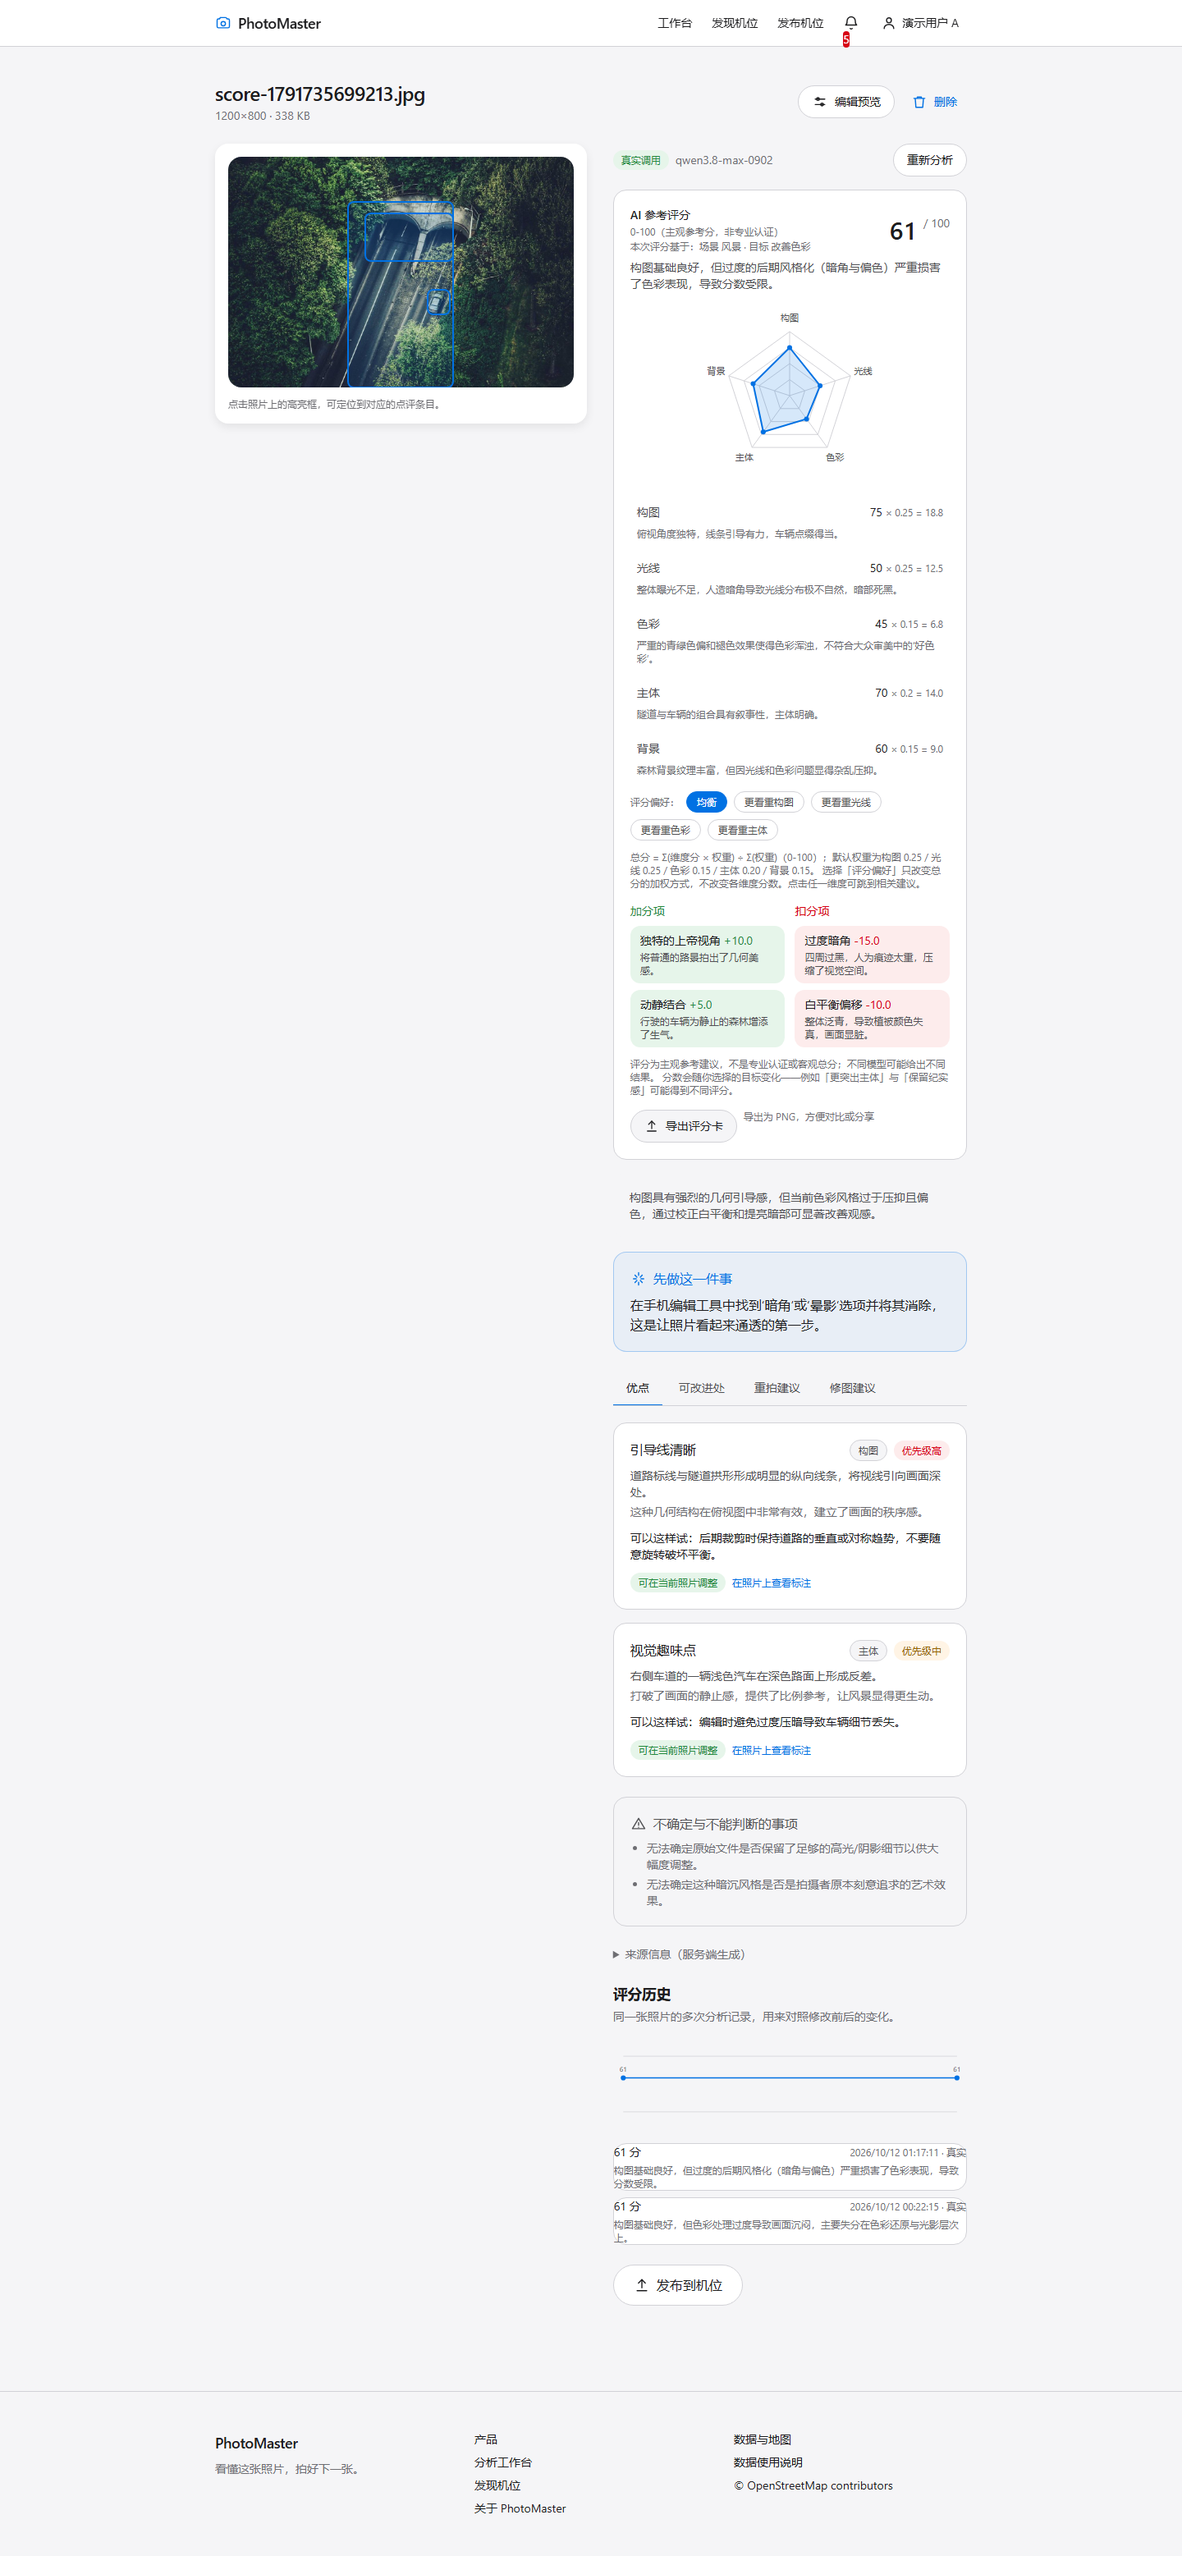
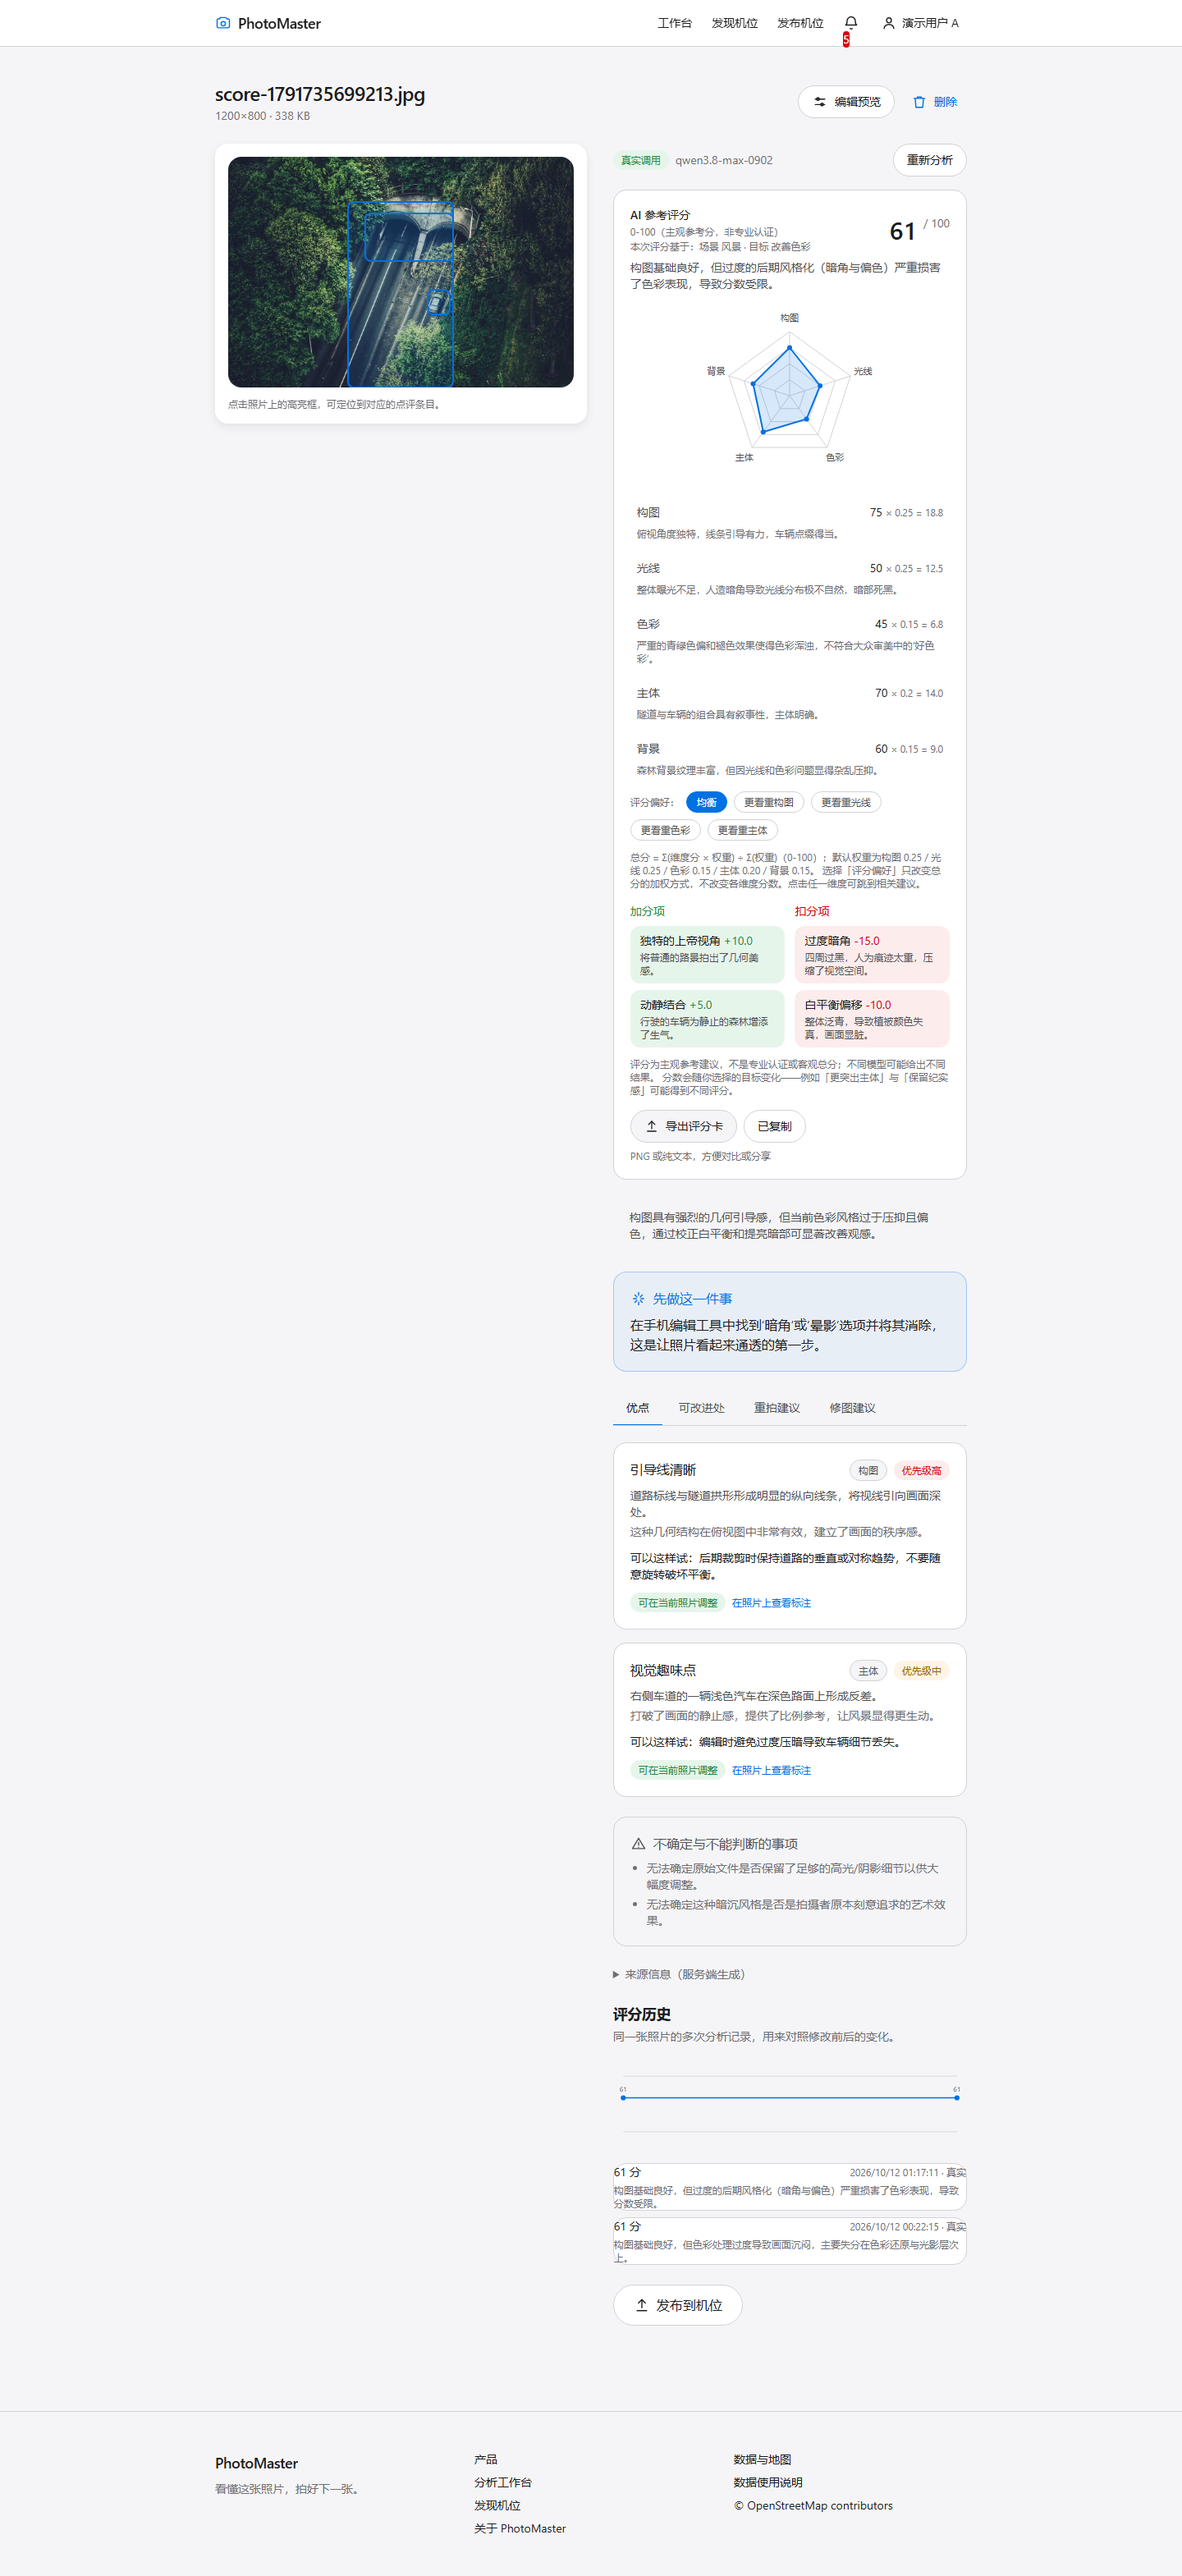
服务端统一评分口径与复制分享文案（S7）

diff --git a/app/static/js/workbench.js b/app/static/js/workbench.js
@@ -724,6 +724,54 @@
   const exportScoreButton = document.getElementById('export-score-card');
   if (exportScoreButton) exportScoreButton.addEventListener('click', exportScoreCard);
 
+  // ---- copy a plain-text summary of the score for quick sharing ----
+  function buildScoreText() {
+    const score = window.PM_SCORE;
+    if (!score) return '';
+    const weights = PREFERENCE_WEIGHTS[activePreference] || PREFERENCE_WEIGHTS.balanced;
+    let weighted = 0;
+    let total = 0;
+    (score.dimensions || []).forEach(function (dim) {
+      const weight = weights[dim.key] === undefined ? Number(dim.weight) : weights[dim.key];
+      weighted += Number(dim.score) * weight;
+      total += weight;
+    });
+    const overall = total > 0 ? Math.round(weighted / total) : (score.overall ?? '—');
+    const preferenceLabel =
+      { balanced: '均衡', composition: '更看重构图', light: '更看重光线', color: '更看重色彩', subject: '更看重主体' }[activePreference] || '均衡';
+    const lines = [];
+    lines.push('【PhotoMaster · AI 参考评分】' + (window.PM_PHOTO && window.PM_PHOTO.originalName ? '' : ''));
+    lines.push('总分 ' + overall + '/100（' + preferenceLabel + '，主观参考分，非专业认证）');
+    if (score.dimensions && score.dimensions.length) {
+      lines.push(score.dimensions.map(function (d) { return d.label + ' ' + d.score; }).join(' · '));
+    }
+    if ((score.pros || []).length) {
+      lines.push('加分项：' + score.pros.slice(0, 3).map(function (p) { return p.label + ' +' + p.delta; }).join('；'));
+    }
+    if ((score.cons || []).length) {
+      lines.push('扣分项：' + score.cons.slice(0, 3).map(function (c) { return c.label + ' ' + c.delta; }).join('；'));
+    }
+    if (window.location && window.location.href) lines.push('链接：' + window.location.href);
+    return lines.join('\n');
+  }
+
+  const copyScoreButton = document.getElementById('copy-score-text');
+  if (copyScoreButton)
+    copyScoreButton.addEventListener('click', async function () {
+      const text = buildScoreText();
+      if (!text) return;
+      const original = copyScoreButton.textContent;
+      try {
+        await navigator.clipboard.writeText(text);
+        copyScoreButton.textContent = '已复制';
+      } catch (err) {
+        setError('复制失败，请手动选择文本');
+      }
+      setTimeout(function () {
+        copyScoreButton.textContent = original;
+      }, 2000);
+    });
+
   // ---- dimension -> related advice jump ----
   document.querySelectorAll('[data-jump-category]').forEach(function (button) {
     button.addEventListener('click', function () {

diff --git a/app/templates/workbench.html b/app/templates/workbench.html
@@ -276,7 +276,12 @@
               <svg width="18" height="18" viewBox="0 0 24 24" fill="none" stroke="currentColor" stroke-width="1.7" stroke-linecap="round" stroke-linejoin="round" aria-hidden="true"><path d="M12 16V4"/><path d="m7 9 5-5 5 5"/><path d="M5 20h14"/></svg>
               导出评分卡
             </button>
-            <span class="self-center text-xs text-muted">导出为 PNG，方便对比或分享</span>
+            <button type="button" id="copy-score-text" data-testid="copy-score-text"
+                    class="inline-flex items-center gap-2 rounded-full font-medium px-4 py-2 text-sm min-h-[40px] bg-surface text-ink border border-line hover:bg-page transition-colors duration-200 ease-apple active:scale-[0.98]">
+              <svg width="18" height="18" viewBox="0 0 24 24" fill="none" stroke="currentColor" stroke-width="1.7" stroke-linecap="round" stroke-linejoin="round" aria-hidden="true"><rect x="9" y="9" width="11" height="11" rx="2"/><path d="M5 15V6a1 1 0 0 1 1-1h9"/></svg>
+              复制分享文案
+            </button>
+            <span class="self-center text-xs text-muted">PNG 或纯文本，方便对比或分享</span>
           </div>
         </div>
         {% else %}

diff --git a/tests/unit/test_scoring.py b/tests/unit/test_scoring.py
@@ -1,0 +1,103 @@
+from __future__ import annotations
+
+import json
+import re
+from pathlib import Path
+
+import pytest
+
+from app.ai.scoring import (
+    DEFAULT_WEIGHTS,
+    PREFERENCE_WEIGHTS,
+    apply_preference_to_score,
+    normalise_preference,
+    weighted_overall,
+)
+
+ROOT = Path(__file__).resolve().parent.parent.parent
+
+DIMS = [
+    {"key": "composition", "score": 80},
+    {"key": "light", "score": 40},
+    {"key": "color", "score": 90},
+    {"key": "subject", "score": 60},
+    {"key": "background", "score": 70},
+]
+
+
+def test_default_weights_cover_all_dimensions_and_sum_to_one():
+    assert set(DEFAULT_WEIGHTS) == {"composition", "light", "color", "subject", "background"}
+    assert sum(DEFAULT_WEIGHTS.values()) == pytest.approx(1.0)
+
+
+def test_every_preference_covers_all_dimensions_and_sums_to_one():
+    for name, weights in PREFERENCE_WEIGHTS.items():
+        assert set(weights) == set(DEFAULT_WEIGHTS), name
+        assert sum(weights.values()) == pytest.approx(1.0), name
+
+
+def test_balanced_matches_default_weighting():
+    balanced = weighted_overall(DIMS, "balanced")
+    from app.ai.schemas import _compute_overall
+
+    default_view = [{"score": d["score"], "weight": DEFAULT_WEIGHTS[d["key"]]} for d in DIMS]
+    assert balanced == _compute_overall(default_view)
+
+
+def test_light_preference_lowers_score_when_light_is_weak():
+    balanced = weighted_overall(DIMS, "balanced")
+    light_focus = weighted_overall(DIMS, "light")
+    # light=40 is the weakest dimension, so emphasising it must reduce the overall.
+    assert light_focus < balanced
+
+
+def test_color_preference_raises_score_when_color_is_strong():
+    balanced = weighted_overall(DIMS, "balanced")
+    color_focus = weighted_overall(DIMS, "color")
+    assert color_focus > balanced
+
+
+def test_unknown_preference_falls_back_to_balanced():
+    assert normalise_preference("nonsense") == "balanced"
+    assert normalise_preference(None) == "balanced"
+    assert weighted_overall(DIMS, "nonsense") == weighted_overall(DIMS, "balanced")
+
+
+def test_missing_dimensions_are_ignored():
+    assert weighted_overall([], "balanced") is None
+    assert weighted_overall(None, "balanced") is None
+    partial = weighted_overall([{"key": "composition", "score": 90}], "light")
+    assert partial == 90
+
+
+def test_apply_preference_enriches_score_copy():
+    score = {"dimensions": DIMS, "overall": 71}
+    enriched = apply_preference_to_score(score, "light")
+    assert score.get("overallPreference") is None  # original untouched
+    assert enriched["preference"] == "light"
+    assert enriched["preferenceLabel"] == "更看重光线"
+    assert enriched["overallPreference"] == weighted_overall(DIMS, "light")
+    assert enriched["overall"] == 71  # stored overall preserved
+
+
+def test_python_and_javascript_weights_stay_in_sync():
+    """The client re-computes the same weighting; guard against drift."""
+    js = (ROOT / "app" / "static" / "js" / "workbench.js").read_text(encoding="utf-8")
+    block = re.search(r"const PREFERENCE_WEIGHTS = \{(?P<body>.*?)\n  \};", js, re.S)
+    assert block, "PREFERENCE_WEIGHTS not found in workbench.js"
+    body = block.group("body")
+
+    for pref in PREFERENCE_WEIGHTS:
+        row = re.search(rf"{pref}:\s*\{{(?P<inner>[^}}]*)\}}", body)
+        assert row, f"preference {pref} missing in JS weights"
+        inner = row.group("inner")
+        js_weights = {
+            key: float(value)
+            for key, value in re.findall(r"(\w+):\s*([0-9.]+)", inner)
+        }
+        assert js_weights == pytest.approx(PREFERENCE_WEIGHTS[pref]), pref
+
+    # And the shared constants used elsewhere agree too.
+    assert json.dumps(sorted(PREFERENCE_WEIGHTS)) == json.dumps(
+        sorted(["balanced", "composition", "light", "color", "subject"])
+    )

diff --git a/app/ai/scoring.py b/app/ai/scoring.py
@@ -1,0 +1,83 @@
+"""Score weighting.
+
+The stored overall score always uses the default weights (stable, reproducible).
+A user's *preference* re-weights the same dimension scores for display; this module
+is the single server-side source of that mapping so API consumers and the UI agree.
+
+Keep in sync with `PREFERENCE_WEIGHTS` in `app/static/js/workbench.js`.
+"""
+
+from __future__ import annotations
+
+from typing import Any
+
+from ..utils import clamp
+
+DEFAULT_WEIGHTS: dict[str, float] = {
+    "composition": 0.25,
+    "light": 0.25,
+    "color": 0.15,
+    "subject": 0.20,
+    "background": 0.15,
+}
+
+PREFERENCE_WEIGHTS: dict[str, dict[str, float]] = {
+    "balanced": DEFAULT_WEIGHTS,
+    "composition": {"composition": 0.40, "light": 0.20, "color": 0.10, "subject": 0.20, "background": 0.10},
+    "light": {"composition": 0.20, "light": 0.40, "color": 0.10, "subject": 0.20, "background": 0.10},
+    "color": {"composition": 0.20, "light": 0.20, "color": 0.40, "subject": 0.10, "background": 0.10},
+    "subject": {"composition": 0.20, "light": 0.15, "color": 0.10, "subject": 0.45, "background": 0.10},
+}
+
+PREFERENCE_LABELS: dict[str, str] = {
+    "balanced": "均衡",
+    "composition": "更看重构图",
+    "light": "更看重光线",
+    "color": "更看重色彩",
+    "subject": "更看重主体",
+}
+
+
+def normalise_preference(value: str | None) -> str:
+    return value if value in PREFERENCE_WEIGHTS else "balanced"
+
+
+def weighted_overall(dimensions: Any, preference: str | None = None) -> int | None:
+    """Re-weight dimension scores with the given preference (weights renormalised)."""
+    if not isinstance(dimensions, list) or not dimensions:
+        return None
+    weights = PREFERENCE_WEIGHTS[normalise_preference(preference)]
+    weighted = 0.0
+    total = 0.0
+    for item in dimensions:
+        if not isinstance(item, dict):
+            continue
+        try:
+            score = float(item.get("score"))
+        except (TypeError, ValueError):
+            continue
+        key = item.get("key")
+        weight = weights.get(key if isinstance(key, str) else "", item.get("weight"))
+        try:
+            weight = float(weight)
+        except (TypeError, ValueError):
+            continue
+        if weight <= 0:
+            continue
+        weighted += score * weight
+        total += weight
+    if total <= 0:
+        return None
+    return int(round(clamp(weighted / total, 0, 100)))
+
+
+def apply_preference_to_score(score: Any, preference: str | None) -> Any:
+    """Return a copy of the score dict with `overallPreference` filled in."""
+    if not isinstance(score, dict):
+        return score
+    pref = normalise_preference(preference)
+    enriched = dict(score)
+    enriched["preference"] = pref
+    enriched["preferenceLabel"] = PREFERENCE_LABELS[pref]
+    enriched["overallPreference"] = weighted_overall(score.get("dimensions"), pref)
+    return enriched

diff --git a/app/services/photos.py b/app/services/photos.py
@@ -137,6 +137,8 @@ def get_photo_detail(photo_id: str, owner_id: str) -> dict[str, Any]:
         raise ApiError(404, "not_found", "照片不存在或无权访问")
     analysis = get_latest_succeeded_analysis(photo_id)
     recipe_row = query_one("SELECT recipe FROM edit_recipes WHERE photo_id = ?", (photo_id,))
+    pref_row = query_one("SELECT score_preference FROM users WHERE id = ?", (owner_id,))
+    preference = (pref_row["score_preference"] if pref_row else None) or "balanced"
     meta_row = query_one(
         """
         SELECT scene, goals FROM analysis_jobs
@@ -145,9 +147,16 @@ def get_photo_detail(photo_id: str, owner_id: str) -> dict[str, Any]:
         """,
         (photo_id,),
     )
+    enriched_analysis = analysis["analysis"] if analysis else None
+    if enriched_analysis and enriched_analysis.get("score"):
+        from ..ai.scoring import apply_preference_to_score
+
+        enriched_analysis = dict(enriched_analysis)
+        enriched_analysis["score"] = apply_preference_to_score(enriched_analysis["score"], preference)
+
     return {
         "photo": _photo_dto(photo),
-        "analysis": analysis["analysis"] if analysis else None,
+        "analysis": enriched_analysis,
         "receipt": analysis["receipt"] if analysis else None,
         "jobId": analysis["jobId"] if analysis else None,
         "analysisMeta": (
